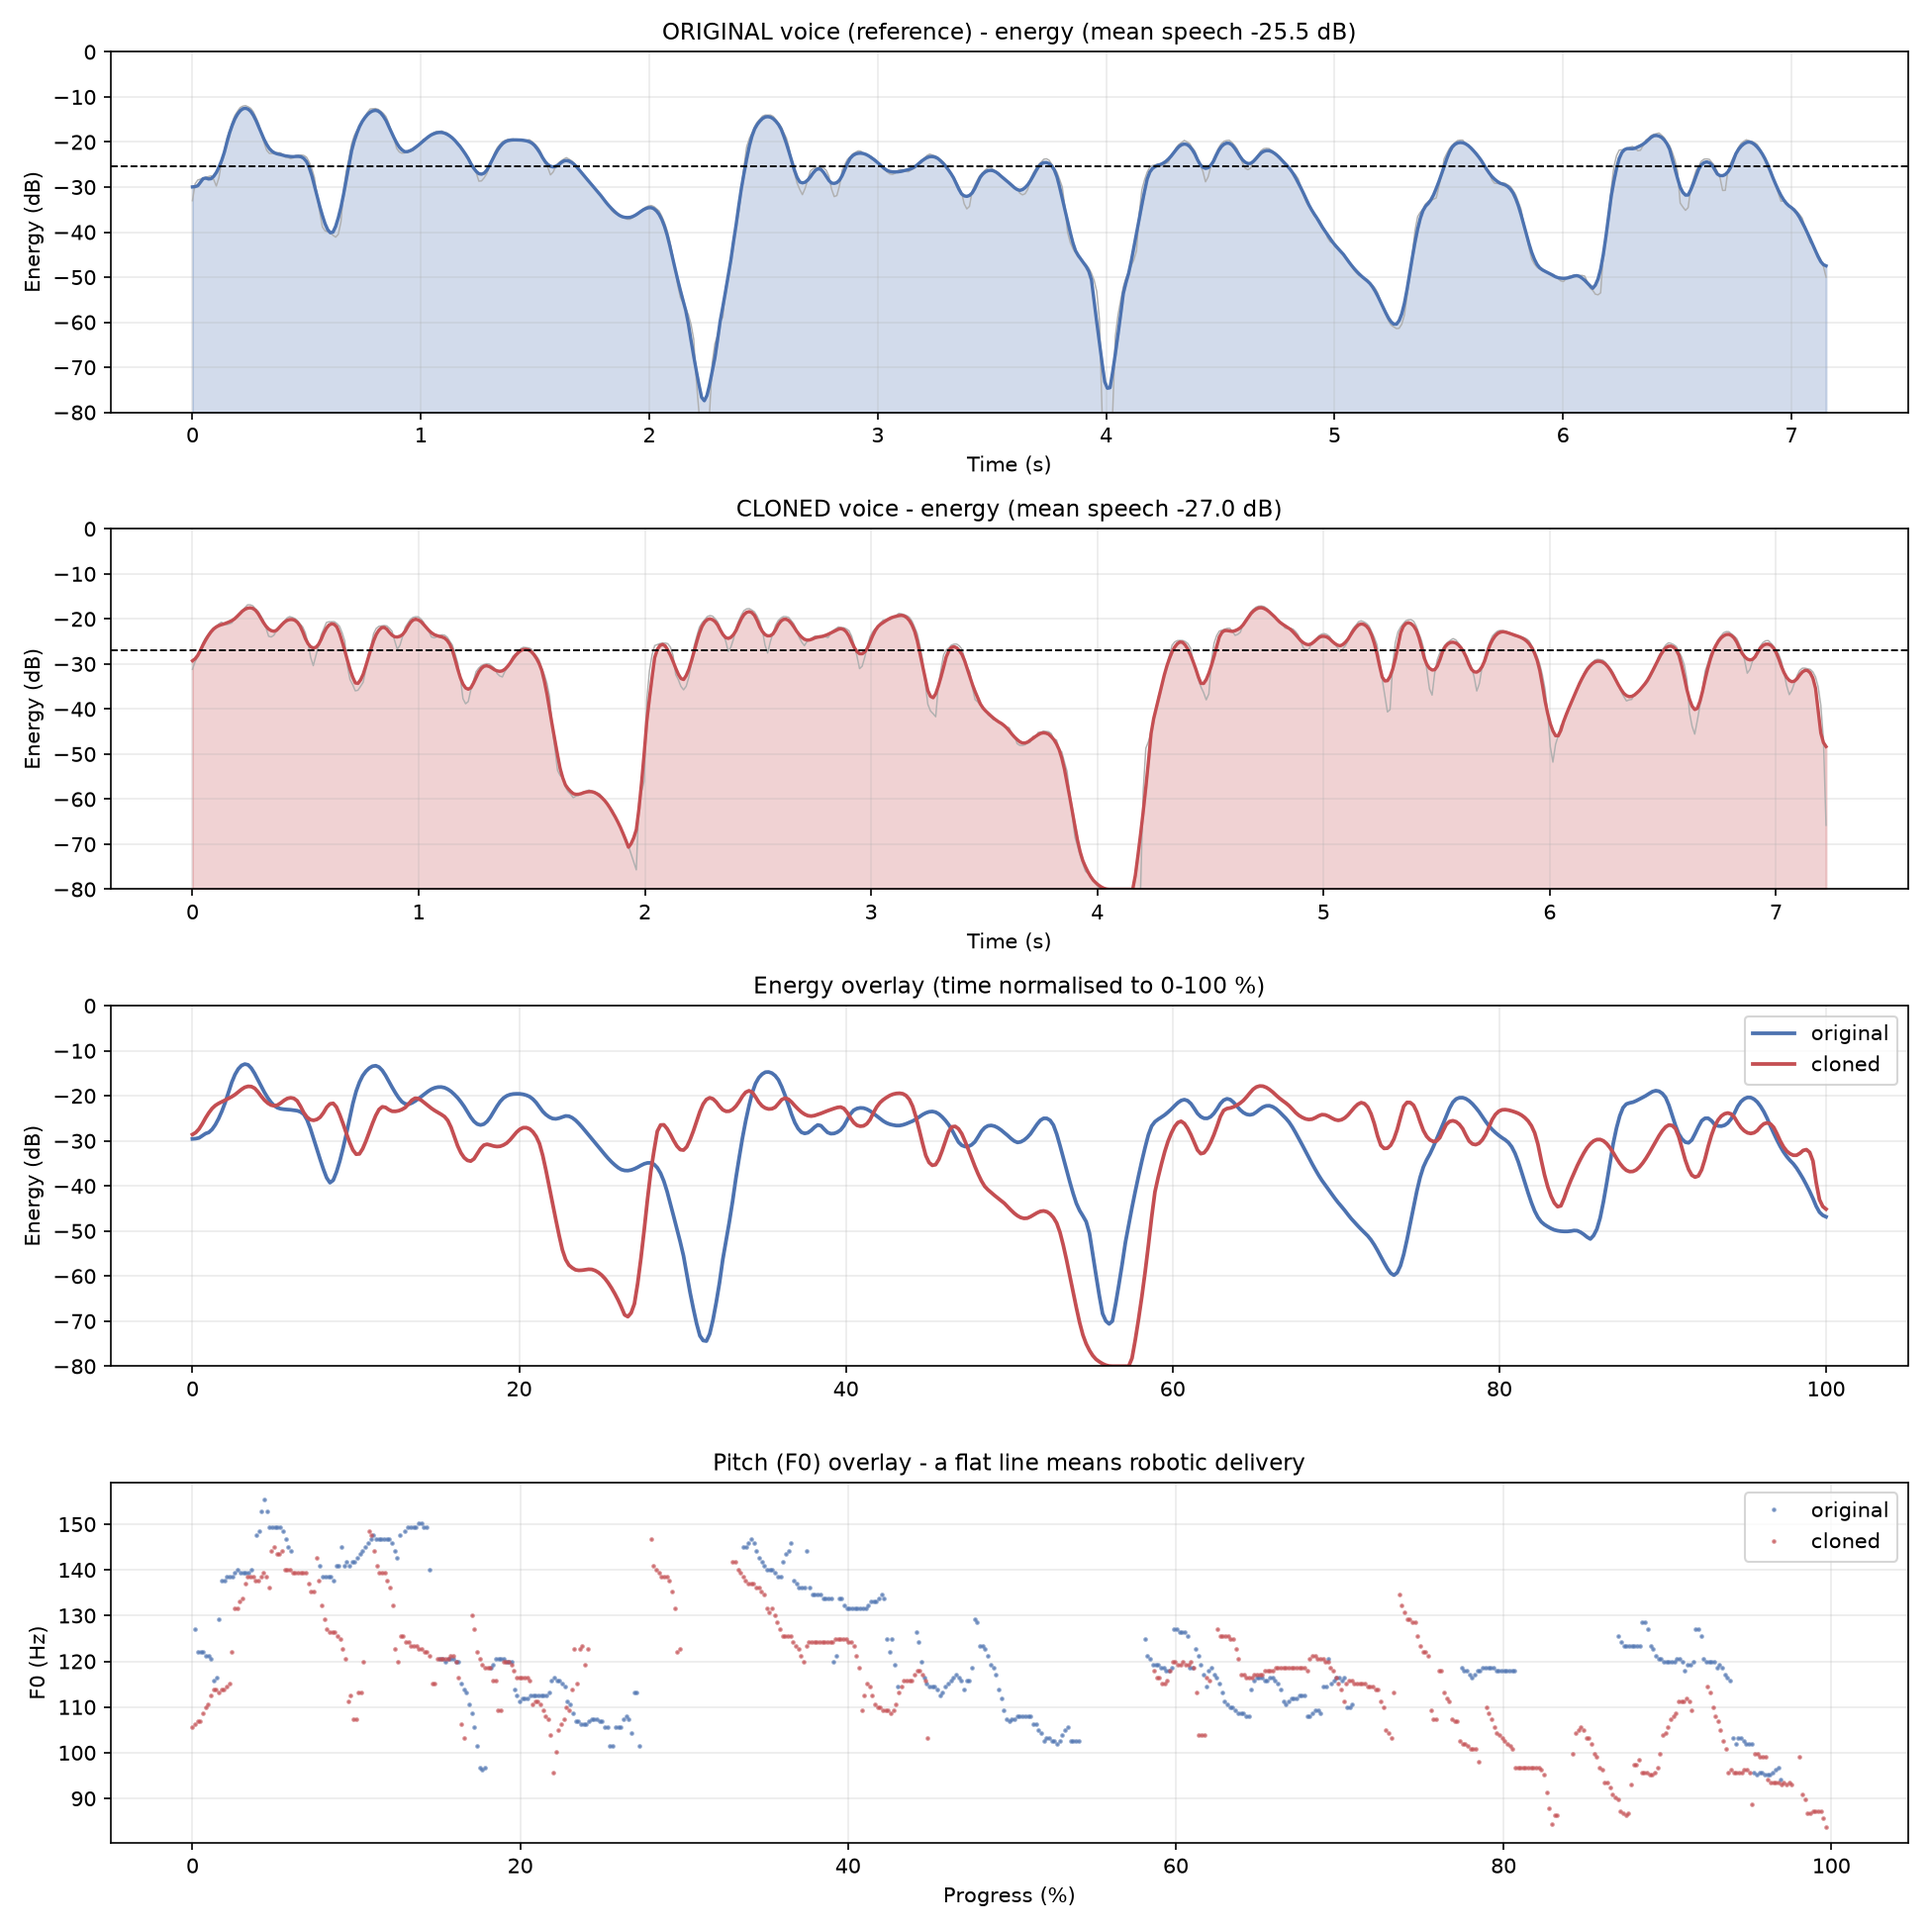
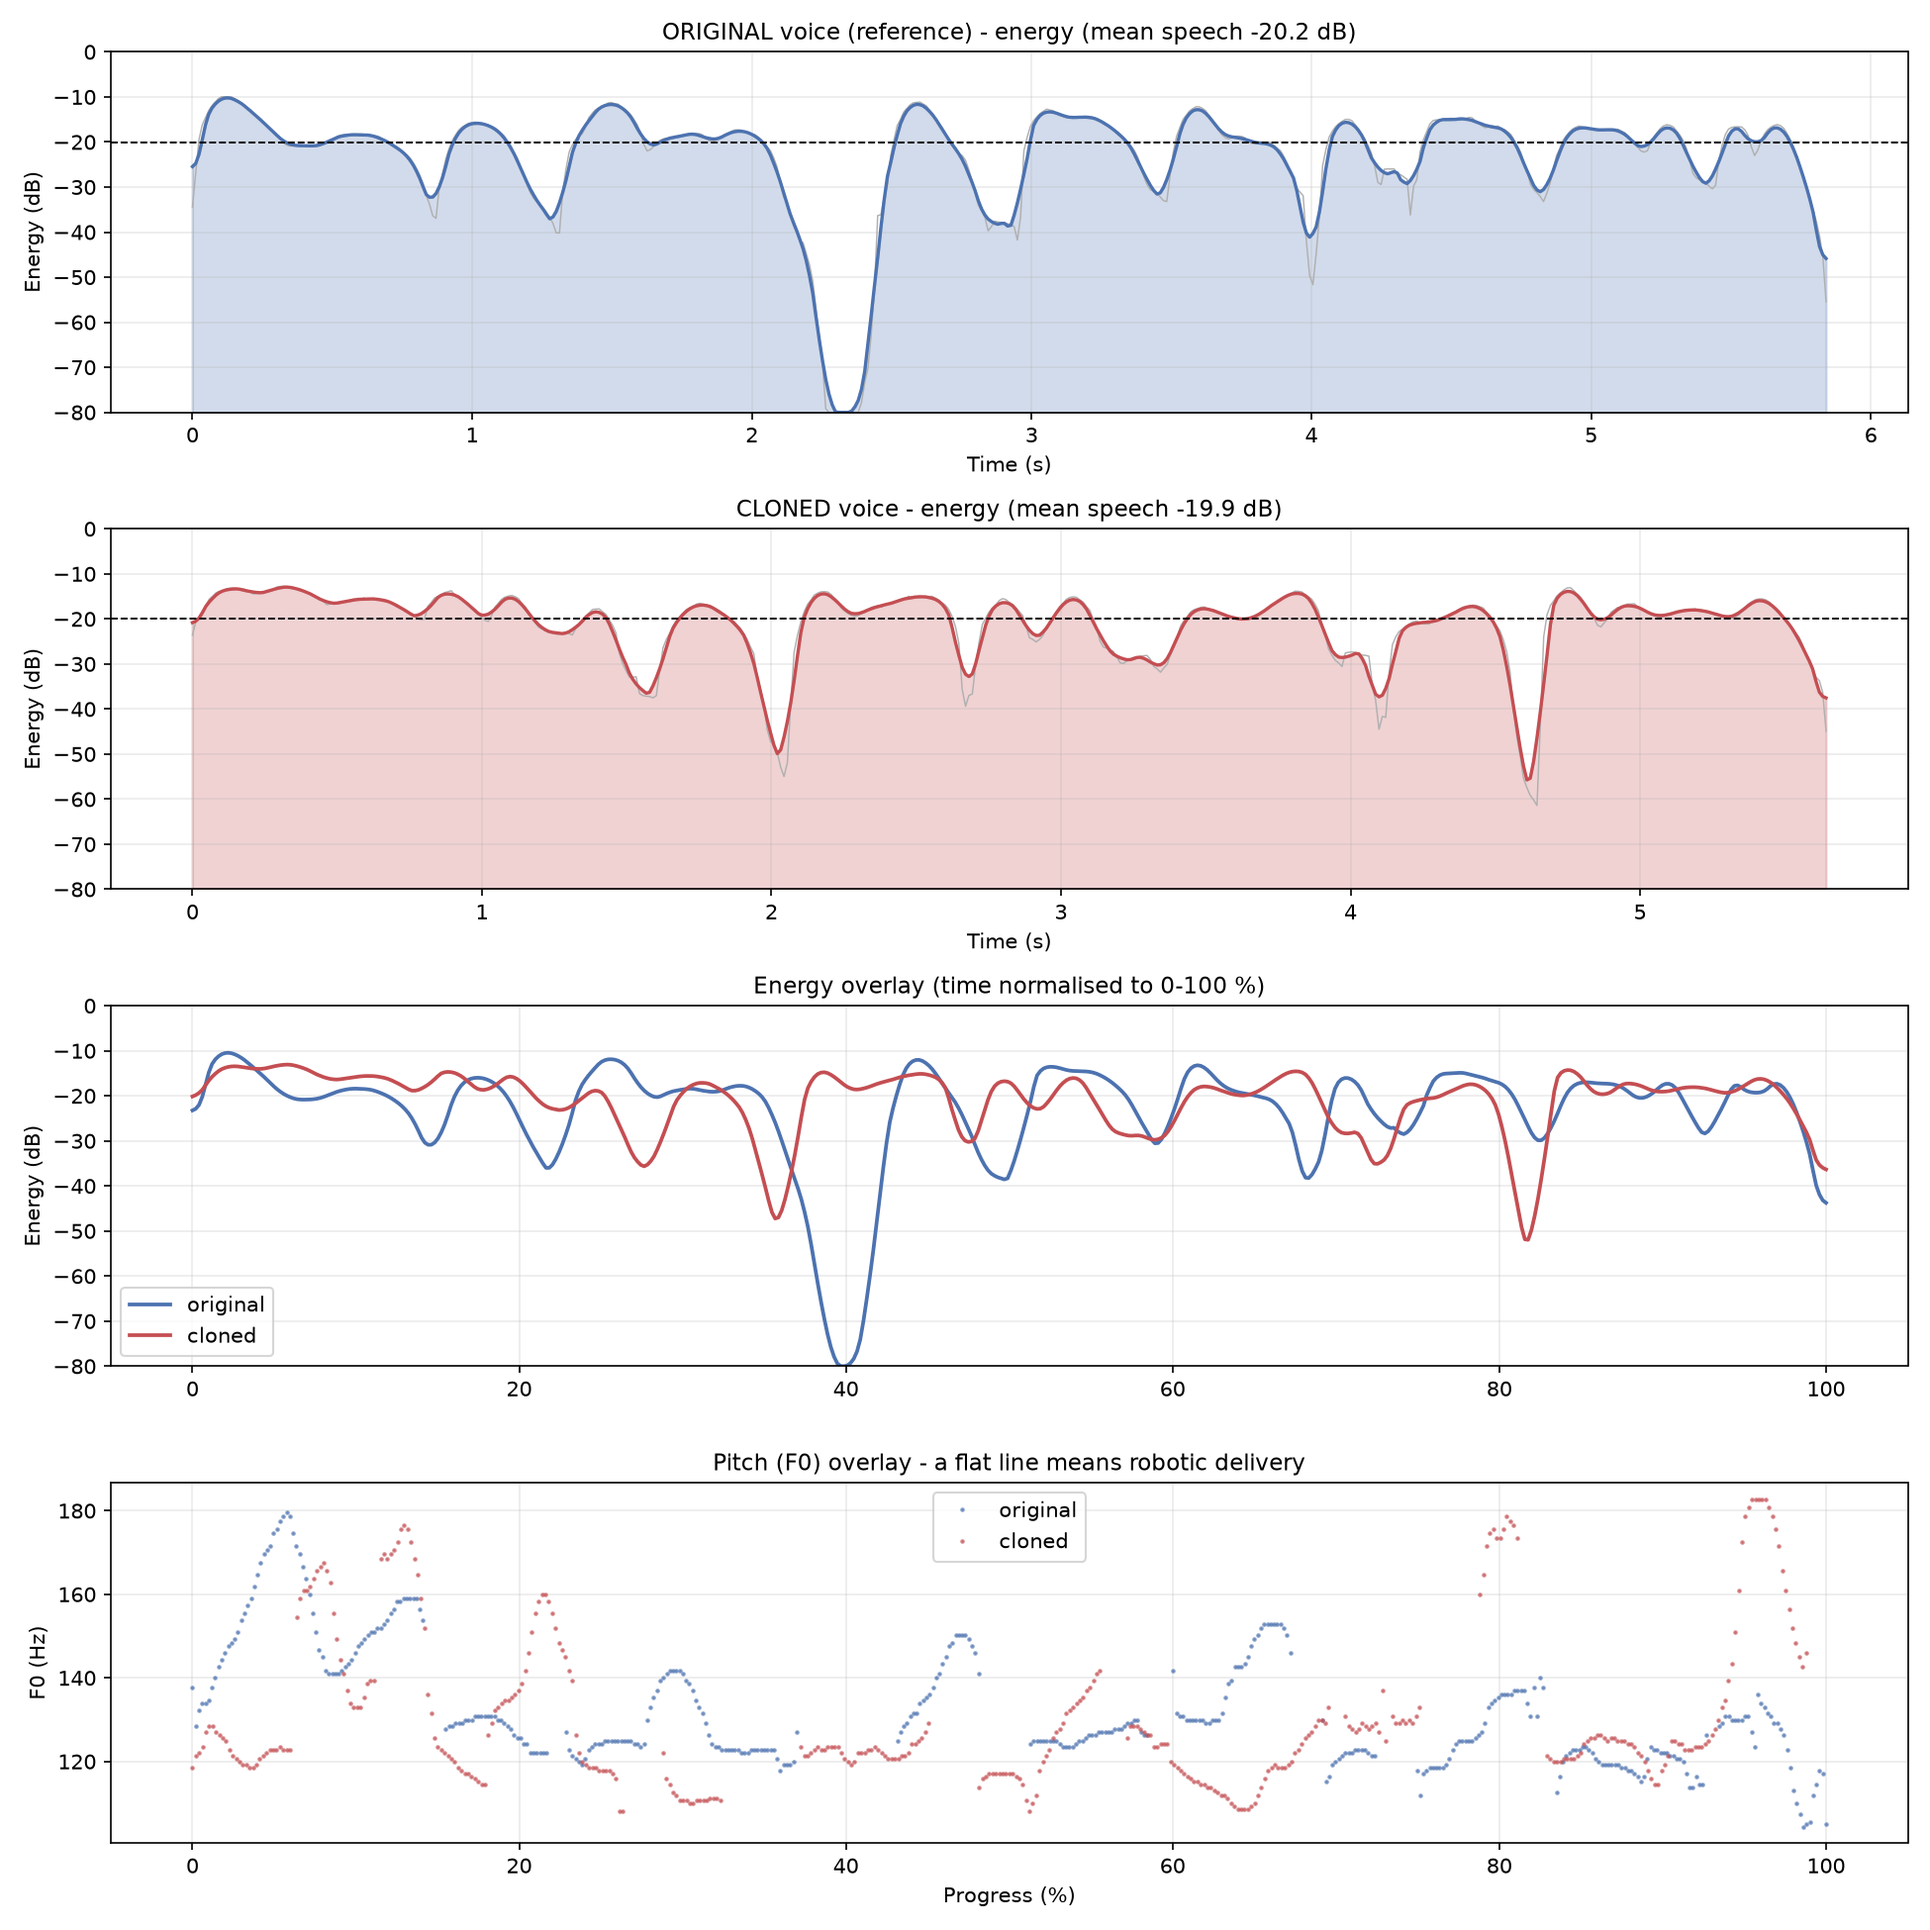
feat(ui,timing): show Stage 2b in health monitor and align speech onset with video duration

diff --git a/Dubbing/00_Auto_Pip/frontend/index.html b/Dubbing/00_Auto_Pip/frontend/index.html
@@ -950,16 +950,20 @@
         const names = {
           mp4_to_mp3: "01 MP4→MP3",
           mp3_to_text: "02a Whisper",
+          voice_extraction: "02b & 06 Voice Extraction (08)",
           text_to_kw: "03 Keywords",
+          kw_to_sentence: "04 Sentences",
           kw_translation: "05a Translate",
           sentence_reformation: "05b Reform",
+          text_to_mp3: "06 Edge-TTS",
           merge_mp3_mp4: "07 Merge",
         };
 
         for (const [key, info] of Object.entries(data.stages)) {
           const chip = document.createElement('span');
           chip.className = `service-chip ${info.online ? 'online' : 'offline'}`;
-          chip.innerHTML = `<span class="dot-status"></span> ${names[key] || key} (${info.port})`;
+          const portText = info.port === "Direct CLI/Engine" ? "Engine Ready" : info.port;
+          chip.innerHTML = `<span class="dot-status"></span> ${names[key] || key} (${portText})`;
           container.appendChild(chip);
         }
       } catch (e) {

diff --git a/Dubbing/08_Voice_extraction_translation/test_cloned.py b/Dubbing/08_Voice_extraction_translation/test_cloned.py
@@ -554,9 +554,12 @@ def fit_background(bg, n):
     return np.concatenate(parts)[:n]
 
 
-def mix_with_background(voice_24k, bg):
-    """Add the (processed) cloned voice on top of the untouched background."""
+def mix_with_background(voice_24k, bg, start_sec=0.0):
+    """Add the (processed) cloned voice on top of the untouched background at the original start offset."""
     voice = librosa.resample(voice_24k, orig_sr=SYNTH_SR, target_sr=BG_SR).astype(np.float32)
+    start_pad = max(0, int(round(start_sec * BG_SR)))
+    if start_pad > 0:
+        voice = np.pad(voice, (start_pad, 0))
     n = max(len(voice), bg.shape[0])                 # keep the whole background
     voice = np.pad(voice, (0, n - len(voice)))
     mix = fit_background(bg, n) + voice[:, None]
@@ -707,9 +710,20 @@ def main():
     if PRESERVE_BACKGROUND and not args.no_background:
         bg, voice_target_db = load_background(profile, profile_path, args.background_wav)
 
+    # Determine target duration and timing alignment
+    bg_info = profile.get("background", {})
+    speech_start_sec = float(bg_info.get("speech_start_sec", 0.0))
+    speech_dur_sec = float(bg_info.get("speech_duration_sec", 0.0))
+    bg_total_dur = float(bg_info.get("duration_sec", 0.0))
+
     target = target_dur
     if target is None and MATCH_ORIGINAL_DURATION:
-        target = profile.get("metadata", {}).get("duration_sec")
+        # Align target speech duration to the active speaking window of the source speaker
+        if speech_dur_sec > 1.0:
+            target = speech_dur_sec
+        else:
+            target = profile.get("metadata", {}).get("duration_sec") or bg_total_dur or None
+
 
     model, device, torch = load_model()
     gpt, spk = get_voice_embedding(model, device, torch, clips_dir=clips_folder, ref_wav=ref_wav_path, cache_path=cache_path)
@@ -745,11 +759,13 @@ def main():
     out_sr, final = SYNTH_SR, y
     if bg is not None:
         sf.write(args.voice_only_wav, voice_only, SYNTH_SR)
-        final, mix_gain = mix_with_background(voice_only, bg)
+        final, mix_gain = mix_with_background(voice_only, bg, start_sec=speech_start_sec)
         out_sr = BG_SR
         adjustments["background"] = "original, unprocessed"
+        adjustments["speech_start_offset_sec"] = speech_start_sec
         if mix_gain:
             adjustments["overall_gain_db_to_avoid_clipping"] = round(mix_gain, 2)
+
 
     # ---- save output ----
     print("\nSaving output ...")

diff --git a/Dubbing/08_Voice_extraction_translation/main.py b/Dubbing/08_Voice_extraction_translation/main.py
@@ -550,7 +550,17 @@ def separate_stems(path, bg_path, vocals_path):
             json.dump(sig, f)
 
     vo, _ = sf.read(vocals_path, dtype="float32", always_2d=True)
-    voice_db = active_db_mean(librosa.resample(vo.mean(axis=1), orig_sr=BG_SR, target_sr=SR))
+    v_mono = vo.mean(axis=1)
+    voice_db = active_db_mean(librosa.resample(v_mono, orig_sr=BG_SR, target_sr=SR))
+    
+    # Calculate speech start/end timestamps in the original vocal track for video timing alignment
+    e = np.abs(v_mono)
+    thr = max(0.015, float(np.max(e)) * 0.08) if e.size > 0 else 0.02
+    act = np.where(e > thr)[0]
+    speech_start_sec = round(float(act[0]) / BG_SR, 3) if act.size > 0 else 0.0
+    speech_end_sec = round(float(act[-1]) / BG_SR, 3) if act.size > 0 else round(float(len(v_mono)) / BG_SR, 3)
+    speech_dur_sec = max(0.5, round(speech_end_sec - speech_start_sec, 3))
+
     return {
         "enabled": True,
         "separation_model": "htdemucs",
@@ -559,6 +569,9 @@ def separate_stems(path, bg_path, vocals_path):
         "vocals_wav": vocals_path.replace("\\", "/"),
         "sample_rate": BG_SR,
         "duration_sec": sf.info(bg_path).frames / BG_SR,
+        "speech_start_sec": speech_start_sec,
+        "speech_end_sec": speech_end_sec,
+        "speech_duration_sec": speech_dur_sec,
         # loudness of the voice inside the original recording (unnormalised) - lets
         # test_cloned.py keep the same voice-to-background balance
         "voice_level_db_in_original": voice_db,

diff --git a/Dubbing/00_Auto_Pip/main.py b/Dubbing/00_Auto_Pip/main.py
@@ -103,6 +103,16 @@ def get_services_status():
             "directory": rel_dir,
         }
 
+    # Include Stage 2b & 08 Voice Extraction & Cloning engine status
+    stage08_ready = (ROOT_DIR / "08_Voice_extraction_translation" / "main.py").is_file() and (ROOT_DIR / "08_Voice_extraction_translation" / "test_cloned.py").is_file()
+    statuses["voice_extraction"] = {
+        "port": "Direct CLI/Engine",
+        "url": "#",
+        "online": stage08_ready,
+        "directory": "08_Voice_extraction_translation",
+    }
+
+
     return {
         "all_ready": all_ready,
         "stages": statuses,
